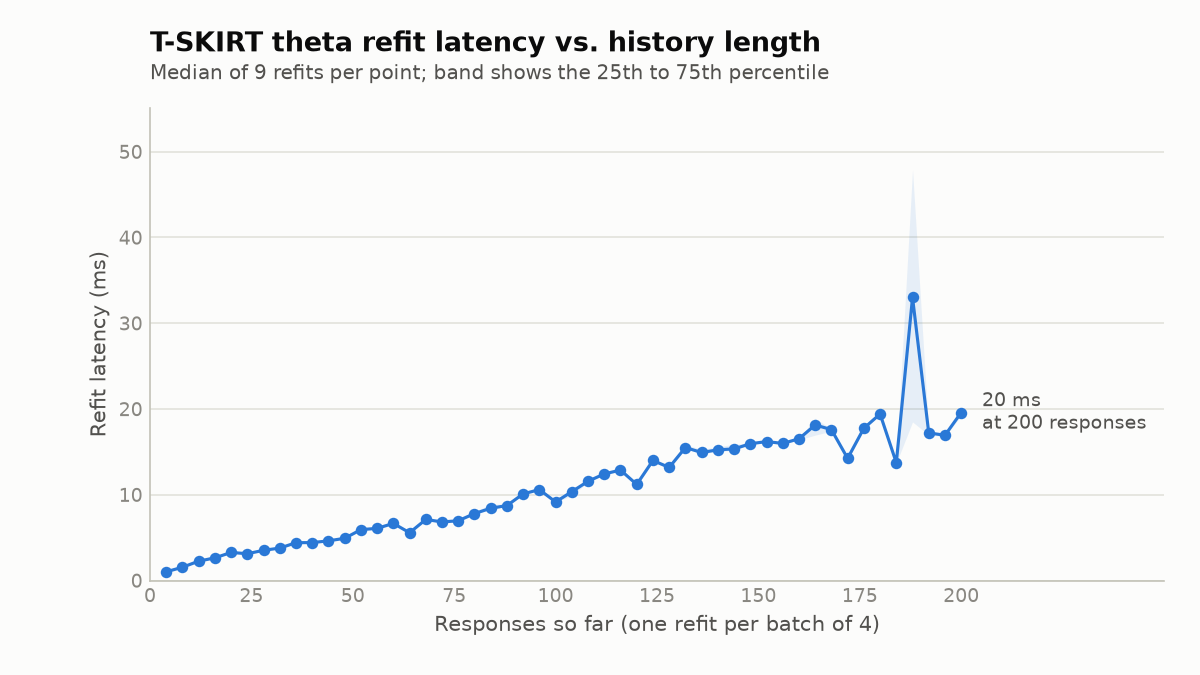
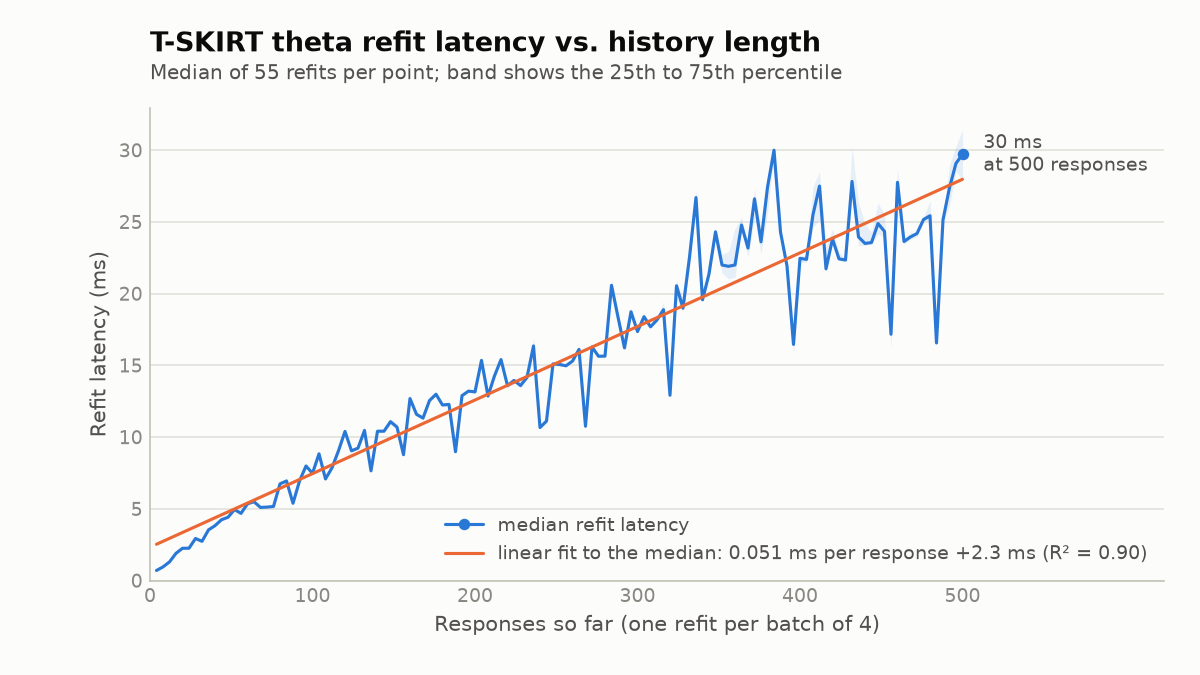
Explore T-SKIRT latency and refactor question_test

diff --git a/src/tutoring_system/structures/tests/question_test.py b/src/tutoring_system/structures/tests/question_test.py
@@ -1,62 +1,116 @@
-# Question/QuestionType test plan:
-#   1. Constructing a Question raises if correct_answer's type doesn't match
-#      question_type.answer_type() -- catches mismatches early rather than surfacing as
-#      an opaque failure later inside is_correct.
-#   2. is_correct for MULTIPLE_CHOICE/TRUE_OR_FALSE: exact match is correct, anything else
-#      is wrong.
-#   3. is_correct for NUMERIC: an answer within NUMERIC_ANSWER_TOLERANCE counts as correct,
-#      outside it does not -- exact float equality would be too strict for this type.
-#   4. is_correct for FILL_IN_THE_BLANK: fuzzy-matches on minor differences (case,
-#      surrounding whitespace, a small typo) but still rejects a genuinely wrong answer.
-#   5. is_correct for FLASHCARD is self-graded -- whatever the student claims (True/False)
-#      is returned as-is, regardless of what correct_answer was constructed with.
+# Question hierarchy test plan:
+#   1. The abstract bases (Question, GenerativeQuestion, NonGenerativeQuestion) cannot be
+#      instantiated -- every concrete type must implement is_correct and guess_floor.
+#   2. is_correct per type: MultipleChoice / TrueOrFalse exact match; MultipleResponse exact
+#      set match (including the empty and the full set); Numeric within
+#      FLOAT_FEASIBILITY_TOLERANCE; FillInTheBlank fuzzy (case, whitespace, small typo) but not a
+#      wrong answer; Flashcard echoes the student's self-assessment.
+#   3. guess_floor per type: generative types 0.0, TrueOrFalse 0.5, MultipleChoice 1/n,
+#      MultipleResponse 1/2^n.
+#   4. Constructing a MultipleChoice / MultipleResponse shuffles the options but the answer key
+#      keeps pointing at the same option text.
+#   5. The registry: types_of() splits the six concrete types into their categories, and
+#      KC.add_question files a question under its own class and rejects another kc's.
 
 import pytest
 
-from tutoring_system.structures.structures import Concept, Question, QuestionType
+from tutoring_system.structures.entities import KC
+from tutoring_system.structures.questions import (
+    Question, GenerativeQuestion, NonGenerativeQuestion, Numeric, FillInTheBlank, Flashcard,
+    TrueOrFalse, MultipleChoice, MultipleResponse, CONCRETE_QUESTION_TYPES, types_of,
+)
 from utils.config import config
 
 
+OPTIONS = ["Paris", "Rome", "Oslo", "Bern"]
+
+
 @pytest.fixture
-def concept():
-    return Concept("test concept", 1)
+def kc():
+    return KC("test kc", 1)
 
 
-def test_constructor_rejects_mismatched_answer_type(concept):
-    with pytest.raises(ValueError):
-        Question(concept, QuestionType.MULTIPLE_CHOICE, correct_answer="not an int", difficulty=0.0)
+@pytest.mark.parametrize("abstract_class", [Question, GenerativeQuestion, NonGenerativeQuestion])
+def test_abstract_bases_cannot_be_instantiated(abstract_class):
+    with pytest.raises(TypeError):
+        abstract_class(1, 0.0)
 
 
-def test_multiple_choice_is_correct(concept):
-    q = Question(concept, QuestionType.MULTIPLE_CHOICE, correct_answer=2, difficulty=0.0)
-    assert q.is_correct(2) is True
-    assert q.is_correct(1) is False
+def test_multiple_choice_is_correct():
+    q = MultipleChoice(1, 0.0, OPTIONS, 2)
+    assert q.is_correct(q.correct_answer) is True
+    assert q.is_correct((q.correct_answer + 1) % 4) is False
 
 
-def test_true_or_false_is_correct(concept):
-    q = Question(concept, QuestionType.TRUE_OR_FALSE, correct_answer=True, difficulty=0.0)
+def test_true_or_false_is_correct():
+    q = TrueOrFalse(1, 0.0, True)
     assert q.is_correct(True) is True
     assert q.is_correct(False) is False
 
 
-def test_numeric_is_correct_within_tolerance(concept):
-    q = Question(concept, QuestionType.NUMERIC, correct_answer=3.14, difficulty=0.0)
+@pytest.mark.parametrize("key", [set(), {0, 2}, {0, 1, 2, 3}])
+def test_multiple_response_is_exact_set_match(key):
+    q = MultipleResponse(1, 0.0, OPTIONS, key)
+    assert q.is_correct(set(q.correct_answers)) is True
+    assert q.is_correct(set(q.correct_answers) | {99}) is False
+
+
+def test_numeric_is_correct_within_tolerance():
+    q = Numeric(1, 0.0, 3.14)
     assert q.is_correct(3.14) is True
-    assert q.is_correct(3.14 + config["NUMERIC_ANSWER_TOLERANCE"] / 2) is True
-    assert q.is_correct(3.14 + config["NUMERIC_ANSWER_TOLERANCE"] * 10) is False
+    assert q.is_correct(3.14 + config["FLOAT_FEASIBILITY_TOLERANCE"] / 2) is True
+    assert q.is_correct(3.14 + config["FLOAT_FEASIBILITY_TOLERANCE"] * 10) is False
 
 
-def test_fill_in_the_blank_fuzzy_match(concept):
-    q = Question(concept, QuestionType.FILL_IN_THE_BLANK, correct_answer="photosynthesis", difficulty=0.0)
+def test_fill_in_the_blank_fuzzy_match():
+    q = FillInTheBlank(1, 0.0, "photosynthesis")
     assert q.is_correct("photosynthesis") is True
     assert q.is_correct("  PHOTOSYNTHESIS  ") is True
     assert q.is_correct("photosyntesis") is True  # small typo, still close enough
     assert q.is_correct("mitochondria") is False
 
 
-def test_flashcard_is_self_graded(concept):
-    # correct_answer is forced to True at construction (flashcards have no real correct
-    # answer), but is_correct should just echo back whatever the student claims.
-    q = Question(concept, QuestionType.FLASHCARD, correct_answer=True, difficulty=0.0)
+def test_flashcard_is_self_graded():
+    q = Flashcard(1, 0.0)
     assert q.is_correct(True) is True
     assert q.is_correct(False) is False
+
+
+def test_guess_floors():
+    assert Numeric(1, 0.0, 1.0).guess_floor() == 0.0
+    assert FillInTheBlank(1, 0.0, "x").guess_floor() == 0.0
+    assert Flashcard(1, 0.0).guess_floor() == 0.0
+    assert TrueOrFalse(1, 0.0, True).guess_floor() == 0.5
+    assert MultipleChoice(1, 0.0, OPTIONS, 0).guess_floor() == pytest.approx(1 / 4)
+    assert MultipleResponse(1, 0.0, OPTIONS, {0}).guess_floor() == pytest.approx(1 / 16)
+
+
+@pytest.mark.parametrize("_", range(50))
+def test_multiple_choice_shuffle_keeps_the_key_on_the_same_option(_):
+    q = MultipleChoice(1, 0.0, OPTIONS, 0)
+    assert q.possible_answers[q.correct_answer] == "Paris"
+    assert sorted(q.possible_answers) == sorted(OPTIONS)
+
+
+@pytest.mark.parametrize("key", [set(), {0, 2}, {0, 1, 2, 3}])
+@pytest.mark.parametrize("_", range(25))
+def test_multiple_response_shuffle_keeps_the_key_on_the_same_options(key, _):
+    q = MultipleResponse(1, 0.0, OPTIONS, key)
+    assert {q.possible_answers[i] for i in q.correct_answers} == {OPTIONS[i] for i in key}
+
+
+def test_types_of_splits_the_concrete_types_by_category():
+    assert set(CONCRETE_QUESTION_TYPES) == types_of(GenerativeQuestion) | types_of(NonGenerativeQuestion)
+    assert types_of(GenerativeQuestion) == {Numeric, FillInTheBlank, Flashcard}
+    assert types_of(NonGenerativeQuestion) == {TrueOrFalse, MultipleChoice, MultipleResponse}
+
+
+def test_add_question_registers_under_its_class(kc):
+    q = kc.add_question(Numeric(kc.id, 0.0, 3.14))
+    assert q in kc.questions_by_type[Numeric]
+    assert kc.questions_by_type[MultipleChoice] == []
+
+
+def test_add_question_rejects_another_kcs_question(kc):
+    with pytest.raises(ValueError):
+        kc.add_question(Numeric(kc.id + 1, 0.0, 3.14))

diff --git a/src/tutoring_system/tskirt/experiments/refit_latency.py b/src/tutoring_system/tskirt/experiments/refit_latency.py
@@ -1,52 +1,93 @@
-# Measures how long a T-SKIRT theta refit takes as a concept's response history grows, refitting
-# at every batch boundary (every BATCH_SIZE responses) with the same call the pipeline makes
-# (fit_concept over the whole history). Writes refit_latency.png and refit_latency.csv next to
-# this file. Run on an otherwise idle machine; background load inflates the numbers.
-# Run: python -m tutoring_system.tskirt.experiments.refit_latency
+# Measures how long a T-SKIRT theta refit takes as a kc's response history grows, refitting after 
+# every batch.
 
+import os
 import time
 from pathlib import Path
 
+# Must be set before numpy loads: multi-threaded BLAS adds timing jitter to these small problems.
+for _var in ("OMP_NUM_THREADS", "OPENBLAS_NUM_THREADS", "MKL_NUM_THREADS"):
+    os.environ[_var] = "1"
+
 import numpy as np
 
-from tutoring_system.structures.structures import Area
+from tutoring_system.structures.entities import Area
 from tutoring_system.tskirt.experiments.sigma_vs_T import simulate_qas
-from tutoring_system.tskirt.tskirt import fit_concept
+from tutoring_system.tskirt.tskirt import fit_kc
 from utils.config import config
 from utils.plotting import *
 
 
-MAX_RESPONSES = 200  # history length at the last measurement
-REPEATS = 9  # timed refits per measurement; the chart shows their median and interquartile range
-MARKER_LIMIT = 60  # above this many points, only the final point gets a marker
+MAX_RESPONSES = 500  # history length at the last measurement
+REPEATS = 55  # timed refits per measurement; the chart shows their median and interquartile range
+MARKER_LIMIT = 1  # above this many points, only the final point gets a marker
 OUT_DIR = Path(__file__).parent
+
+
+def pin_to_quietest_core() -> None:
+    # Timings are much steadier on one idle core: the scheduler can't move the process between
+    # cores that are busy or running at different clock speeds. Linux only; skipped elsewhere.
+    if not (hasattr(os, "sched_setaffinity") and Path("/proc/stat").exists()):
+        return
+
+    def snapshot() -> dict[int, tuple[int, int]]:
+        cores = {}
+        for line in Path("/proc/stat").read_text().splitlines():
+            name, *fields = line.split()
+            if name.startswith("cpu") and name[3:].isdigit():
+                values = list(map(int, fields))
+                cores[int(name[3:])] = (values[3] + values[4], sum(values))  # (idle, total)
+        return cores
+
+    before = snapshot()
+    time.sleep(1.0)
+    after = snapshot()
+    busy = {core: 1 - (after[core][0] - before[core][0]) / max(1, after[core][1] - before[core][1])
+            for core in os.sched_getaffinity(0) if core in before}
+    core = min(busy, key=busy.get)
+    os.sched_setaffinity(0, {core})
+    print(f"  pinned to core {core} (the least busy, {busy[core]:.0%} load)")
 
 
 def measure() -> tuple[np.ndarray, np.ndarray]:
     # Returns (responses at each measurement, refit times in ms with shape (points, REPEATS)).
     batch = config["BATCH_SIZE"]
     qas, _ = simulate_qas(np.linspace(-1.0, 1.5, MAX_RESPONSES), np.random.default_rng(0))
-    concept_id = qas[0].question.concept_id
+    kc_id = qas[0].question.kc_id
 
     area = Area(0)
     sizes, times = [], []
+    started = time.perf_counter()
     for start in range(0, MAX_RESPONSES, batch):
         area.history.extend(qas[start:start + batch])
         if start == 0:
-            fit_concept(area, concept_id)  # untimed warm-up; the first call in a process is slow
+            fit_kc(area, kc_id)  # untimed warm-up; the first call in a process is slow
         runs = []
         for _ in range(REPEATS):
             t0 = time.perf_counter()
-            fit_concept(area, concept_id)
+            fit_kc(area, kc_id)
             runs.append((time.perf_counter() - t0) * 1000)
         sizes.append(len(area.history))
         times.append(runs)
+
+        done, elapsed = len(area.history), time.perf_counter() - started
+        print(f"\r  measuring: {done}/{MAX_RESPONSES} responses ({done / MAX_RESPONSES:.0%}), "
+              f"{elapsed:.0f} s elapsed   ", end="", flush=True)
+    print()
     return np.array(sizes), np.array(times)
 
 
 
+def fit_line(x: np.ndarray, y: np.ndarray) -> tuple[float, float, float]:
+    # Least-squares line through the medians. Returns (slope, intercept, R^2).
+    slope, intercept = np.polyfit(x, y, 1)
+    r2 = 1 - np.sum((y - (slope * x + intercept)) ** 2) / np.sum((y - y.mean()) ** 2)
+    return slope, intercept, r2
+
+
 def plot(sizes: np.ndarray, times: np.ndarray, path: Path) -> None:
     median = np.median(times, axis=1)
+    slope, intercept, r2 = fit_line(sizes, median)
     lo, hi = np.percentile(times, [25, 75], axis=1)
 
     fig, ax = new_chart(
@@ -55,26 +96,29 @@ def plot(sizes: np.ndarray, times: np.ndarray, path: Path) -> None:
         f"Responses so far (one refit per batch of {config['BATCH_SIZE']})",
         "Refit latency (ms)")
     draw_line(ax, sizes, median, band=(lo, hi),
-              markers="all" if len(sizes) <= MARKER_LIMIT else "end")
+              markers="all" if len(sizes) <= MARKER_LIMIT else "end", label="median refit latency")
+    draw_line(ax, sizes, slope * sizes + intercept, color=SERIES_COLORS[1], markers="none",
+              label=f"linear fit to the median: {slope:.3f} ms per response {intercept:+.1f} ms (R² = {r2:.2f})")
     ax.set_xlim(left=0)
     label_end(ax, sizes, median, f"{median[-1]:.0f} ms\nat {sizes[-1]} responses")
     save_chart(fig, ax, path)
 
 
 def main() -> None:
+    pin_to_quietest_core()
     sizes, times = measure()
-    median = np.median(times, axis=1)
+    median, mean = np.median(times, axis=1), times.mean(axis=1)
 
     np.savetxt(OUT_DIR / "refit_latency.csv",
-               np.column_stack([sizes, median, times.min(axis=1), times.max(axis=1)]),
-               delimiter=",", header="responses,median_ms,min_ms,max_ms", comments="", fmt="%.3f")
+               np.column_stack([sizes, median, mean, times.min(axis=1), times.max(axis=1)]),
+               delimiter=",", header="responses,median_ms,mean_ms,min_ms,max_ms", comments="", fmt="%.3f")
     plot(sizes, times, OUT_DIR / "refit_latency.png")
 
-    slope = np.polyfit(sizes, median, 1)[0]
-    print(f"{'responses':>9} {'median ms':>10} {'min ms':>8} {'max ms':>8}")
+    slope, intercept, r2 = fit_line(sizes, median)
+    print(f"{'responses':>9} {'median ms':>10} {'mean ms':>9} {'min ms':>8} {'max ms':>8}")
     for i in sorted({0, len(sizes) // 4, len(sizes) // 2, 3 * len(sizes) // 4, len(sizes) - 1}):
-        print(f"{sizes[i]:>9} {median[i]:>10.1f} {times[i].min():>8.1f} {times[i].max():>8.1f}")
-    print(f"linear trend: {slope:.3f} ms per extra response")
+        print(f"{sizes[i]:>9} {median[i]:>10.1f} {mean[i]:>9.1f} {times[i].min():>8.1f} {times[i].max():>8.1f}")
+    print(f"linear fit to the median: {slope:.3f} ms per extra response {intercept:+.1f} ms (R^2 = {r2:.3f})")
     print(f"wrote {OUT_DIR / 'refit_latency.png'} and refit_latency.csv")
 
 
